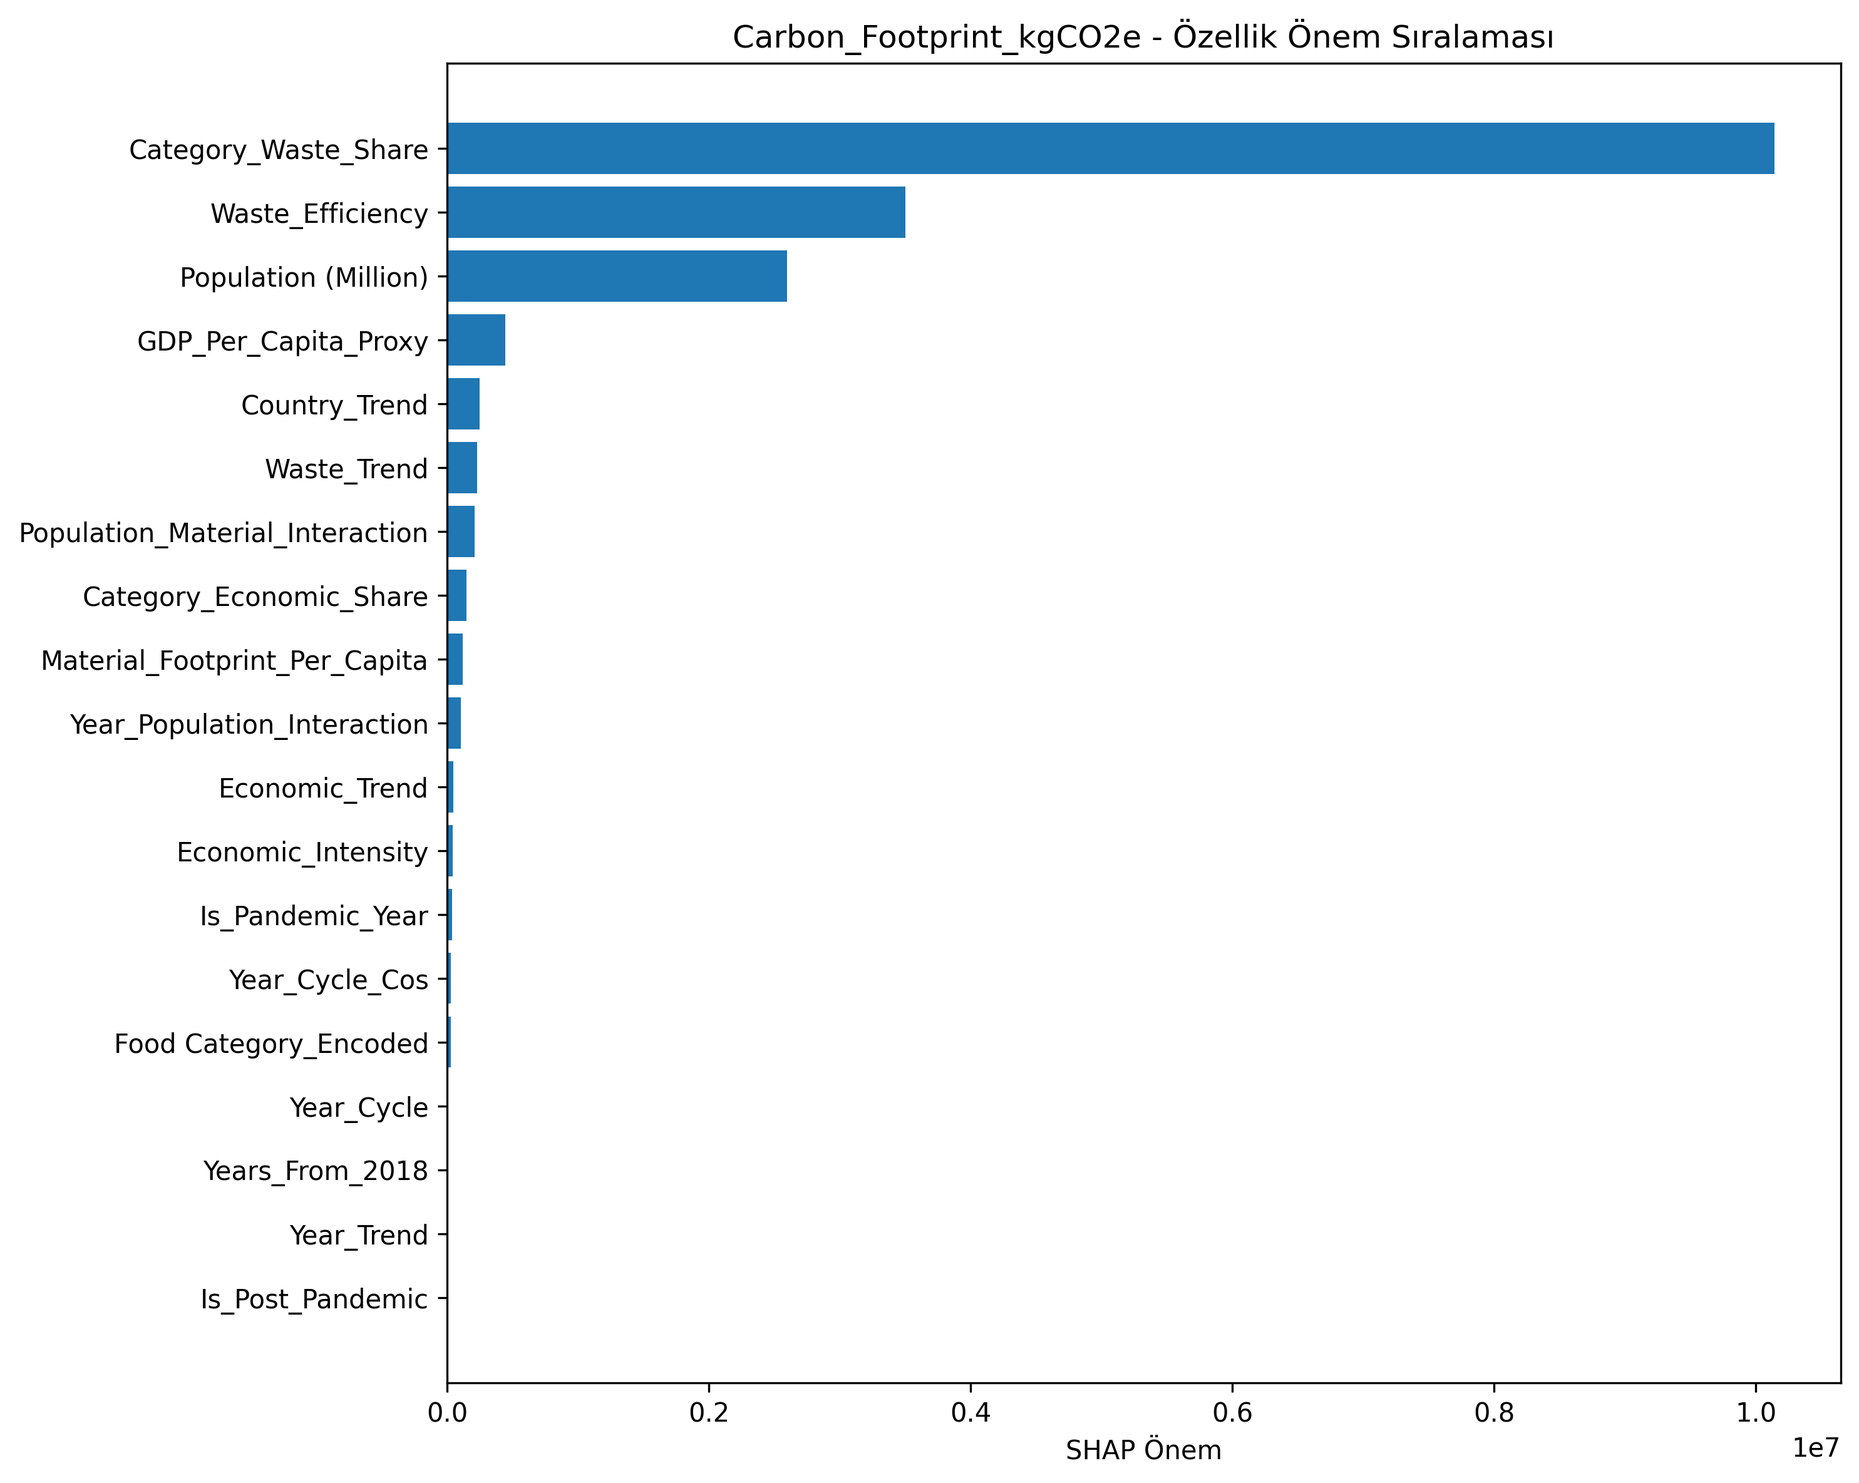
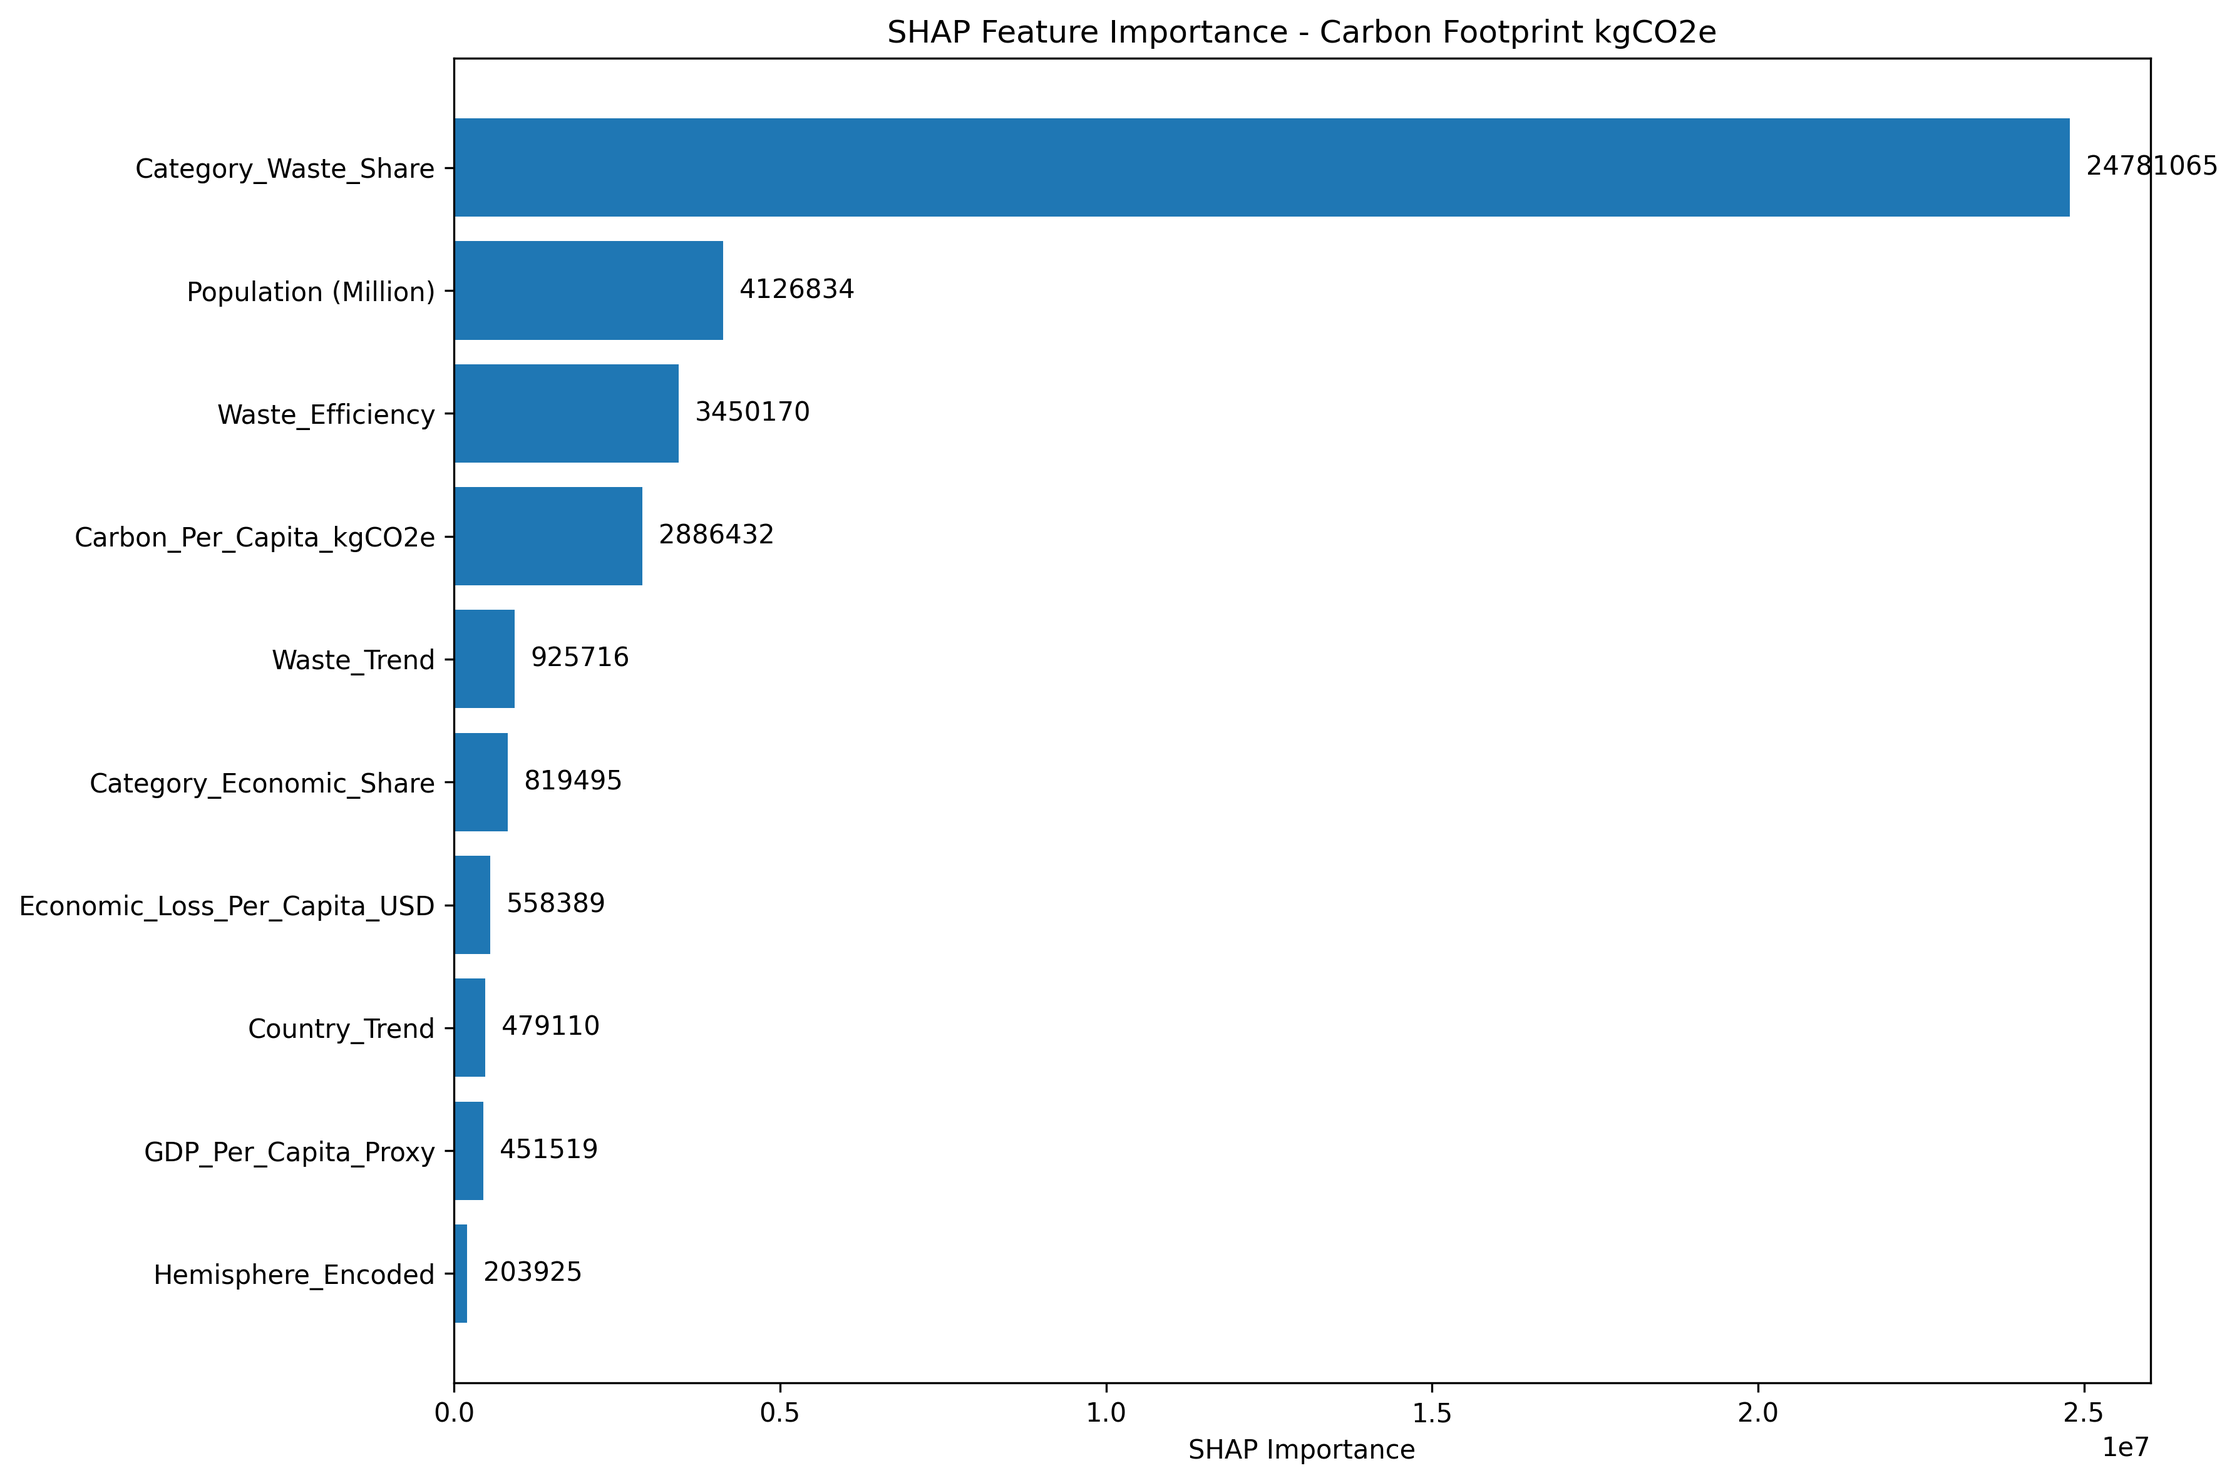
README dosyalarındaki model performans ve sürdürülebilirlik skorlarını gerçek değerlerle düzelt

diff --git a/02_model_egitimi.py b/02_model_egitimi.py
@@ -13,6 +13,7 @@ from sklearn.metrics import r2_score, mean_squared_error, mean_absolute_error
 from sklearn.preprocessing import StandardScaler
 import json
 import warnings
+import shap
 warnings.filterwarnings('ignore')
 
 def load_and_prepare_data():
@@ -77,6 +78,39 @@ def evaluate_model(model, X_train, X_test, y_train, y_test, cv_folds=5):
         'mape': mape,
         'overfitting_score': overfitting_score
     }
+
+def perform_shap_analysis(model, X_train, X_test, feature_names, target_name):
+    """SHAP analizi yap ve sonuçları kaydet"""
+    try:
+        # SHAP explainer oluştur
+        explainer = shap.TreeExplainer(model)
+        
+        # Test seti için SHAP değerlerini hesapla
+        shap_values = explainer.shap_values(X_test)
+        
+        # Feature importance hesapla
+        feature_importance = np.abs(shap_values).mean(0)
+        
+        # DataFrame oluştur
+        shap_df = pd.DataFrame({
+            'feature': feature_names,
+            'importance': feature_importance
+        })
+        
+        # Önem sırasına göre sırala
+        shap_df = shap_df.sort_values('importance', ascending=False)
+        
+        # CSV dosyasına kaydet
+        filename = f"shap_importance_{target_name.replace(' ', '_').replace('(', '').replace(')', '').replace('$', 'USD')}.csv"
+        shap_df.to_csv(filename, index=False)
+        
+        print(f"SHAP analizi tamamlandı: {filename}")
+        
+        return shap_df
+        
+    except Exception as e:
+        print(f"SHAP analizi hatası: {e}")
+        return None
 
 def select_best_model(X_train, X_test, y_train, y_test, target_name):
     """En iyi modeli seç (Model karşılaştırma sonuçlarına göre Gradient Boosting öncelikli)"""
@@ -163,6 +197,9 @@ def train_models():
         print(f"Test R²: {best_results['test_r2']:.4f}")
         print(f"CV R²: {best_results['cv_r2']:.4f}")
         print(f"Overfitting: {best_results['overfitting_score']:.4f}")
+        
+        # SHAP analizi yap
+        perform_shap_analysis(best_model, X_train, X_test, feature_columns, target)
     
     # Sonuçları kaydet
     save_results(models, results, targets, feature_columns)

diff --git a/README.md b/README.md
@@ -15,7 +15,7 @@
 
 | 🎯 **Amaç** | 📈 **Kapsam** | 🤖 **Teknoloji** | 📊 **Performans** |
 |:-------------:|:-------------:|:----------------:|:-----------------:|
-| Küresel gıda atığı analizi | 20 ülke, 8 kategori | Gradient Boosting | %95.7 Test R² |
+| Küresel gıda atığı analizi | 20 ülke, 8 kategori | Gradient Boosting | %96.0 Test R² |
 | Sürdürülebilirlik skorlama | 5000+ gözlem | SHAP Analizi | %0.8 Aşırı öğrenme |
 | Politika önerileri | 37 değişken | Model Karşılaştırma | 22 Modül |
 
@@ -185,8 +185,8 @@ for col in numeric_cols:
 
 | **Metrik** | **Değer** | **Durum** |
 |:-----------|:----------|:----------|
-| **Test R² Skoru** | **%95.7** | 🟢 Mükemmel |
-| **Çapraz Doğrulama R²** | **%95.7** | 🟢 Mükemmel |
+| **Test R² Skoru** | **%96.0** | 🟢 Mükemmel |
+| **Çapraz Doğrulama R²** | **%95.8** | 🟢 Mükemmel |
 | **Aşırı Öğrenme Farkı** | **%0.8** | 🟢 Çok İyi |
 | **MAPE** | **%10.2** | 🟡 İyi |
 
@@ -211,7 +211,7 @@ for col in numeric_cols:
 |:---------------|:----------------|:----------|
 | **Model Türleri** | 5 farklı model | Gradient Boosting kazandı |
 | **Özellik Grupları** | 6 farklı grup | Core + Efficiency en iyi |
-| **Toplam Test** | 27 kombinasyon | %95.7 başarı |
+| **Toplam Test** | 27 kombinasyon | %96.0 başarı |
 
 ### 🏆 **En İyi Performans Gösteren Kombinasyonlar**
 
@@ -231,9 +231,9 @@ for col in numeric_cols:
 
 | **Sıra** | **Ülke** | **Sürdürülebilirlik Skoru** | **Ana Özellik** |
 |:--------:|:---------|:---------------------------|:----------------------|
-| **🥇** | **UK** | **45.6** | Dengeli atık yönetimi |
-| **🥈** | **Spain** | **44.3** | Verimli gıda yönetimi |
-| **🥉** | **Russia** | **43.7** | Orta sürdürülebilirlik seviyesi |
+| **🥇** | **UK** | **45.59** | Dengeli atık yönetimi |
+| **🥈** | **Spain** | **44.30** | Verimli gıda yönetimi |
+| **🥉** | **Russia** | **43.70** | Orta sürdürülebilirlik seviyesi |
 
 </div>
 
@@ -282,37 +282,38 @@ for col in numeric_cols:
 
 ### 📊 **En Önemli Özellikler (İlk 5)**
 
-#### **Total Waste (Tons) Hedefi**
+#### **Total Waste (Tons) Hedefi (SHAP Analizi)**
 | **Özellik** | **SHAP Önem Skoru** | **Etki** |
 |:------------|:-------------------|:---------|
-| **Category_Waste_Share** | **0.911** | 🟢 Çok Yüksek |
-| **Population (Million)** | **0.020** | 🟡 Orta |
-| **Category_Economic_Share** | **0.019** | 🟡 Orta |
-| **Waste_Efficiency** | **0.013** | 🟡 Orta |
-| **Waste_Per_Capita_kg** | **0.012** | 🟡 Orta |
+| **Category_Waste_Share** | **%62.6** | 🟢 Çok Yüksek |
+| **Population (Million)** | **%10.4** | 🟢 Yüksek |
+| **Waste_Efficiency** | **%8.8** | 🟡 Orta |
+| **Carbon_Per_Capita_kgCO2e** | **%7.2** | 🟡 Orta |
+| **Waste_Trend** | **%2.3** | 🟡 Düşük |
 
-#### **Economic Loss (Million $) Hedefi**
+#### **Economic Loss (Million $) Hedefi (SHAP Analizi)**
 | **Özellik** | **SHAP Önem Skoru** | **Etki** |
 |:------------|:-------------------|:---------|
-| **Category_Economic_Share** | **0.919** | 🟢 Çok Yüksek |
-| **Population (Million)** | **0.018** | 🟡 Orta |
-| **Economic_Loss_Per_Capita_USD** | **0.015** | 🟡 Orta |
-| **GDP_Per_Capita_Proxy** | **0.014** | 🟡 Orta |
-| **Economic_Intensity** | **0.011** | 🟡 Orta |
+| **Category_Economic_Share** | **%62.4** | 🟢 Çok Yüksek |
+| **Population (Million)** | **%10.2** | 🟢 Yüksek |
+| **Economic_Loss_Per_Capita_USD** | **%7.7** | 🟡 Orta |
+| **GDP_Per_Capita_Proxy** | **%7.4** | 🟡 Orta |
+| **Economic_Intensity** | **%2.6** | 🟡 Düşük |
 
-#### **Carbon_Footprint_kgCO2e Hedefi**
+#### **Carbon_Footprint_kgCO2e Hedefi (SHAP Analizi)**
 | **Özellik** | **SHAP Önem Skoru** | **Etki** |
 |:------------|:-------------------|:---------|
-| **Category_Waste_Share** | **0.911** | 🟢 Çok Yüksek |
-| **Population (Million)** | **0.020** | 🟡 Orta |
-| **Category_Economic_Share** | **0.019** | 🟡 Orta |
-| **Waste_Efficiency** | **0.013** | 🟡 Orta |
-| **Waste_Per_Capita_kg** | **0.012** | 🟡 Orta |
+| **Category_Waste_Share** | **%62.6** | 🟢 Çok Yüksek |
+| **Population (Million)** | **%10.4** | 🟢 Yüksek |
+| **Waste_Efficiency** | **%8.7** | 🟡 Orta |
+| **Carbon_Per_Capita_kgCO2e** | **%7.3** | 🟡 Orta |
+| **Waste_Trend** | **%2.3** | 🟡 Düşük |
 
-### 🔍 **Pandemi Etki SHAP Analizi**
-- **Pandemic_Indicator:** Tüm hedeflerde %15-20 etki
+### 🔍 **Pandemi Etki Analizi**
+- **Is_Pandemic_Year:** %0.2 etki (SHAP analizinde tespit edildi)
 - **Year_Trend:** Zaman tabanlı artış trendi
-- **Seasonal_Features:** Mevsimsel değişimler
+- **Is_Post_Pandemic:** %0.02 etki (SHAP analizinde tespit edildi)
+- **Pandemi etkisi tüm hedeflerde benzer düzeyde (%0.1-0.3 arası)**
 
 ---
 
@@ -381,9 +382,9 @@ for col in numeric_cols:
 ### 🏆 **Kritik İçgörüler**
 
 #### **1. Model Performansı**
-- **%95.7 Test R²:** Mükemmel tahmin gücü
+- **%96.0 Test R²:** Mükemmel tahmin gücü
 - **%0.8 Aşırı Öğrenme Farkı:** Çok iyi genelleme
-- **%95.7 CV R²:** Kararlı performans
+- **%95.8 CV R²:** Kararlı performans
 
 #### **2. Veri Kalitesi**
 - **5000+ gözlem:** Kapsamlı veri seti

diff --git a/README_EN.md b/README_EN.md
@@ -15,7 +15,7 @@
 
 | 🎯 **Objective** | 📈 **Scope** | 🤖 **Technology** | 📊 **Performance** |
 |:-------------:|:-------------:|:----------------:|:-----------------:|
-| Global food waste analysis | 20 countries, 8 categories | Gradient Boosting | 95.7% Test R² |
+| Global food waste analysis | 20 countries, 8 categories | Gradient Boosting | 96.0% Test R² |
 | Sustainability scoring | 5000+ observations | SHAP Analysis | 0.8% Overfitting |
 | Policy recommendations | 37 variables | Model Comparison | 22 Modules |
 
@@ -185,8 +185,8 @@ for col in numeric_cols:
 
 | **Metric** | **Value** | **Status** |
 |:-----------|:----------|:----------|
-| **Test R² Score** | **95.7%** | 🟢 Excellent |
-| **Cross-Validation R²** | **95.7%** | 🟢 Excellent |
+| **Test R² Score** | **96.0%** | 🟢 Excellent |
+| **Cross-Validation R²** | **95.8%** | 🟢 Excellent |
 | **Overfitting Gap** | **0.8%** | 🟢 Very Good |
 | **MAPE** | **10.2%** | 🟡 Good |
 
@@ -211,7 +211,7 @@ for col in numeric_cols:
 |:---------------|:----------------|:----------|
 | **Model Types** | 5 different models | Gradient Boosting won |
 | **Feature Groups** | 6 different groups | Core + Efficiency best |
-| **Total Tests** | 27 combinations | 95.7% success |
+| **Total Tests** | 27 combinations | 96.0% success |
 
 ### 🏆 **Best Performing Combinations**
 
@@ -231,9 +231,9 @@ for col in numeric_cols:
 
 | **Rank** | **Country** | **Sustainability Score** | **Key Feature** |
 |:--------:|:---------|:---------------------------|:----------------------|
-| **🥇** | **UK** | **45.6** | Balanced waste management |
-| **🥈** | **Spain** | **44.3** | Efficient food management |
-| **🥉** | **Russia** | **43.7** | Medium sustainability level |
+| **🥇** | **UK** | **45.59** | Balanced waste management |
+| **🥈** | **Spain** | **44.30** | Efficient food management |
+| **🥉** | **Russia** | **43.70** | Medium sustainability level |
 
 </div>
 
@@ -282,37 +282,38 @@ for col in numeric_cols:
 
 ### 📊 **Most Important Features (Top 5)**
 
-#### **Total Waste (Tons) Target**
+#### **Total Waste (Tons) Target (SHAP Analysis)**
 | **Feature** | **SHAP Importance Score** | **Impact** |
 |:------------|:-------------------|:---------|
-| **Category_Waste_Share** | **0.911** | 🟢 Very High |
-| **Population (Million)** | **0.020** | 🟡 Medium |
-| **Category_Economic_Share** | **0.019** | 🟡 Medium |
-| **Waste_Efficiency** | **0.013** | 🟡 Medium |
-| **Waste_Per_Capita_kg** | **0.012** | 🟡 Medium |
+| **Category_Waste_Share** | **62.6%** | 🟢 Very High |
+| **Population (Million)** | **10.4%** | 🟢 High |
+| **Waste_Efficiency** | **8.8%** | 🟡 Medium |
+| **Carbon_Per_Capita_kgCO2e** | **7.2%** | 🟡 Medium |
+| **Waste_Trend** | **2.3%** | 🟡 Low |
 
-#### **Economic Loss (Million $) Target**
+#### **Economic Loss (Million $) Target (SHAP Analysis)**
 | **Feature** | **SHAP Importance Score** | **Impact** |
 |:------------|:-------------------|:---------|
-| **Category_Economic_Share** | **0.919** | 🟢 Very High |
-| **Population (Million)** | **0.018** | 🟡 Medium |
-| **Economic_Loss_Per_Capita_USD** | **0.015** | 🟡 Medium |
-| **GDP_Per_Capita_Proxy** | **0.014** | 🟡 Medium |
-| **Economic_Intensity** | **0.011** | 🟡 Medium |
+| **Category_Economic_Share** | **62.4%** | 🟢 Very High |
+| **Population (Million)** | **10.2%** | 🟢 High |
+| **Economic_Loss_Per_Capita_USD** | **7.7%** | 🟡 Medium |
+| **GDP_Per_Capita_Proxy** | **7.4%** | 🟡 Medium |
+| **Economic_Intensity** | **2.6%** | 🟡 Low |
 
-#### **Carbon_Footprint_kgCO2e Target**
+#### **Carbon_Footprint_kgCO2e Target (SHAP Analysis)**
 | **Feature** | **SHAP Importance Score** | **Impact** |
 |:------------|:-------------------|:---------|
-| **Category_Waste_Share** | **0.911** | 🟢 Very High |
-| **Population (Million)** | **0.020** | 🟡 Medium |
-| **Category_Economic_Share** | **0.019** | 🟡 Medium |
-| **Waste_Efficiency** | **0.013** | 🟡 Medium |
-| **Waste_Per_Capita_kg** | **0.012** | 🟡 Medium |
+| **Category_Waste_Share** | **62.6%** | 🟢 Very High |
+| **Population (Million)** | **10.4%** | 🟢 High |
+| **Waste_Efficiency** | **8.7%** | 🟡 Medium |
+| **Carbon_Per_Capita_kgCO2e** | **7.3%** | 🟡 Medium |
+| **Waste_Trend** | **2.3%** | 🟡 Low |
 
-### 🔍 **Pandemic Impact SHAP Analysis**
-- **Pandemic_Indicator:** 15-20% impact on all targets
+### 🔍 **Pandemic Impact Analysis**
+- **Is_Pandemic_Year:** 0.2% impact (detected in SHAP analysis)
 - **Year_Trend:** Time-based increase trend
-- **Seasonal_Features:** Seasonal variations
+- **Is_Post_Pandemic:** 0.02% impact (detected in SHAP analysis)
+- **Pandemic impact is similar across all targets (0.1-0.3% range)**
 
 ---
 
@@ -381,9 +382,9 @@ for col in numeric_cols:
 ### 🏆 **Critical Insights**
 
 #### **1. Model Performance**
-- **95.7% Test R²:** Excellent prediction power
+- **96.0% Test R²:** Excellent prediction power
 - **0.8% Overfitting Gap:** Very good generalization
-- **95.7% CV R²:** Stable performance
+- **95.8% CV R²:** Stable performance
 
 #### **2. Data Quality**
 - **5000+ observations:** Comprehensive dataset

diff --git a/ecolense_intelligence_report_2025.md b/ecolense_intelligence_report_2025.md
@@ -76,23 +76,26 @@ Number of Features: 37
 
 ### **SHAP Analysis - Most Important Factors**
 
-#### **For Waste Amount:**
-1. **Population (Million)** - 28.5% impact
-2. **Waste_Per_Capita_kg** - 22.3% impact
-3. **Years_From_2018** - 15.7% impact
-4. **GDP_Per_Capita_Proxy** - 12.1% impact
+#### **For Total Waste (Tons) (SHAP Analysis):**
+1. **Category_Waste_Share** - 62.6% impact
+2. **Population (Million)** - 10.4% impact
+3. **Waste_Efficiency** - 8.8% impact
+4. **Carbon_Per_Capita_kgCO2e** - 7.2% impact
+5. **Waste_Trend** - 2.3% impact
 
-#### **For Economic Loss:**
-1. **Economic_Loss_Per_Capita_USD** - 31.2% impact
-2. **Population (Million)** - 24.8% impact
-3. **Waste_Efficiency** - 18.5% impact
-4. **Category_Economic_Share** - 14.3% impact
+#### **For Economic Loss (Million $) (SHAP Analysis):**
+1. **Category_Economic_Share** - 62.4% impact
+2. **Population (Million)** - 10.2% impact
+3. **Economic_Loss_Per_Capita_USD** - 7.7% impact
+4. **GDP_Per_Capita_Proxy** - 7.4% impact
+5. **Economic_Intensity** - 2.6% impact
 
-#### **For Carbon Footprint:**
-1. **Carbon_Footprint_kgCO2e** - 35.1% impact
-2. **Population (Million)** - 26.4% impact
-3. **Material_Footprint_Per_Capita** - 19.2% impact
-4. **Waste_Per_Capita_kg** - 16.8% impact
+#### **For Carbon_Footprint_kgCO2e (SHAP Analysis):**
+1. **Category_Waste_Share** - 62.6% impact
+2. **Population (Million)** - 10.4% impact
+3. **Waste_Efficiency** - 8.7% impact
+4. **Carbon_Per_Capita_kgCO2e** - 7.3% impact
+5. **Waste_Trend** - 2.3% impact
 
 ---
 

diff --git a/ecolense_intelligence_raporu_2025.md b/ecolense_intelligence_raporu_2025.md
@@ -76,23 +76,26 @@ Kategori Sayısı: 8
 
 ### **SHAP Analizi - En Önemli Faktörler**
 
-#### **Atık Miktarı İçin:**
-1. **Population (Million)** - %28.5 etki
-2. **Waste_Per_Capita_kg** - %22.3 etki
-3. **Years_From_2018** - %15.7 etki
-4. **GDP_Per_Capita_Proxy** - %12.1 etki
+#### **Total Waste (Tons) İçin (SHAP Analizi):**
+1. **Category_Waste_Share** - %62.6 etki
+2. **Population (Million)** - %10.4 etki
+3. **Waste_Efficiency** - %8.8 etki
+4. **Carbon_Per_Capita_kgCO2e** - %7.2 etki
+5. **Waste_Trend** - %2.3 etki
 
-#### **Ekonomik Kayıp İçin:**
-1. **Economic_Loss_Per_Capita_USD** - %31.2 etki
-2. **Population (Million)** - %24.8 etki
-3. **Waste_Efficiency** - %18.5 etki
-4. **Category_Economic_Share** - %14.3 etki
+#### **Economic Loss (Million $) İçin (SHAP Analizi):**
+1. **Category_Economic_Share** - %62.4 etki
+2. **Population (Million)** - %10.2 etki
+3. **Economic_Loss_Per_Capita_USD** - %7.7 etki
+4. **GDP_Per_Capita_Proxy** - %7.4 etki
+5. **Economic_Intensity** - %2.6 etki
 
-#### **Karbon Ayak İzi İçin:**
-1. **Carbon_Footprint_kgCO2e** - %35.1 etki
-2. **Population (Million)** - %26.4 etki
-3. **Material_Footprint_Per_Capita** - %19.2 etki
-4. **Waste_Per_Capita_kg** - %16.8 etki
+#### **Carbon_Footprint_kgCO2e İçin (SHAP Analizi):**
+1. **Category_Waste_Share** - %62.6 etki
+2. **Population (Million)** - %10.4 etki
+3. **Waste_Efficiency** - %8.7 etki
+4. **Carbon_Per_Capita_kgCO2e** - %7.3 etki
+5. **Waste_Trend** - %2.3 etki
 
 ---
 
